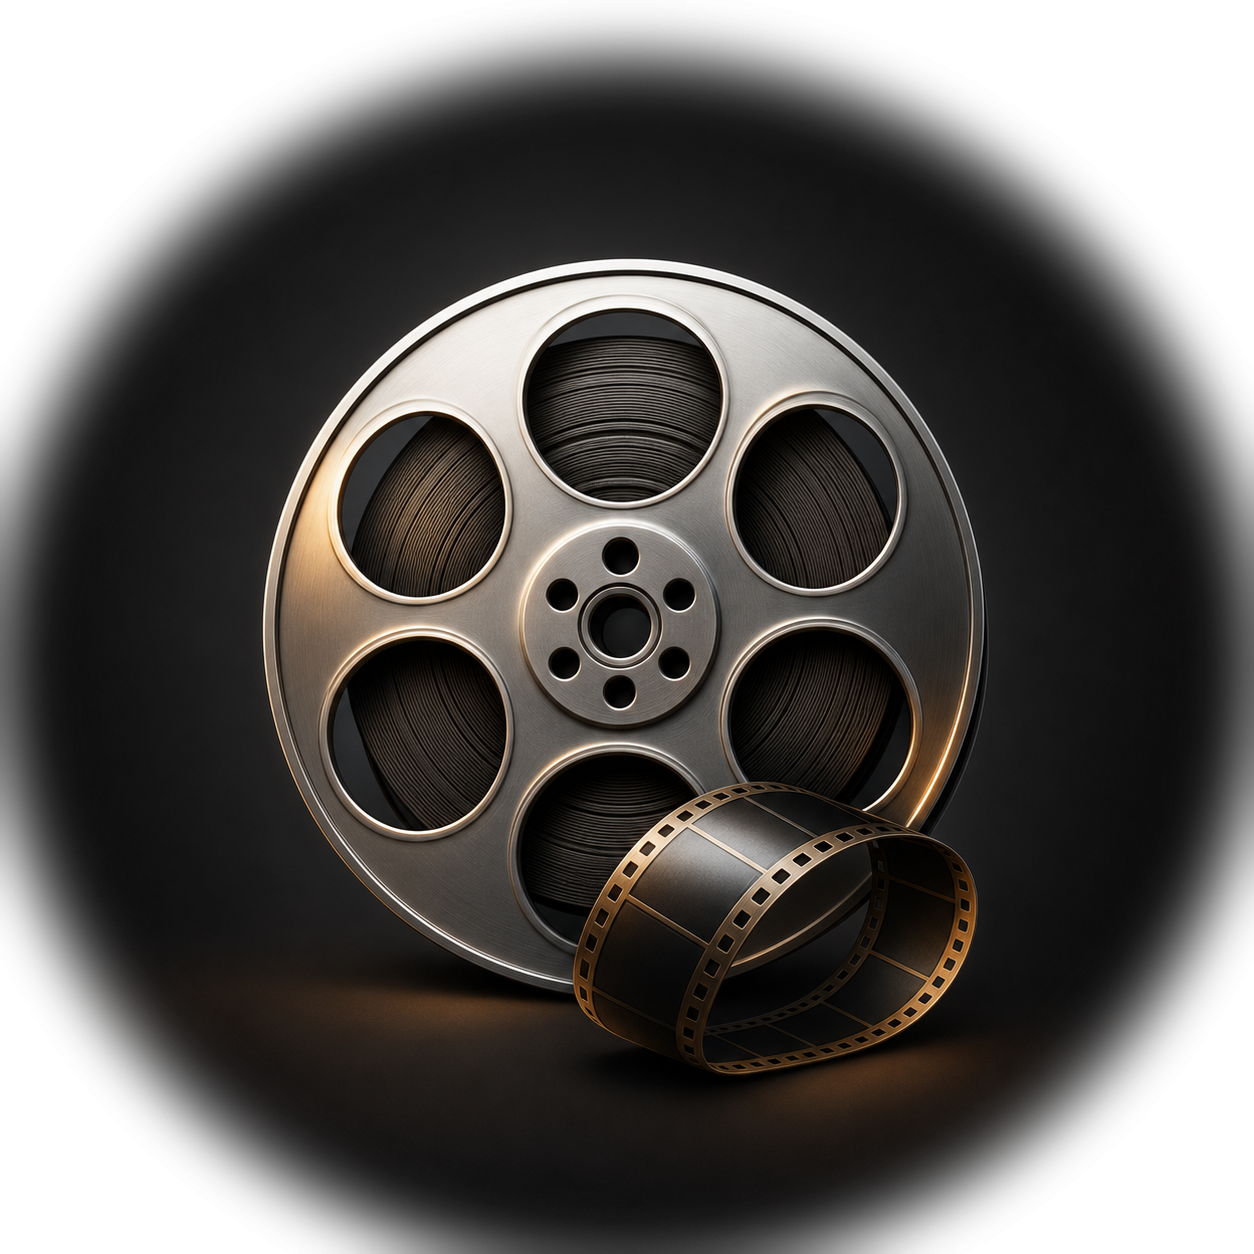
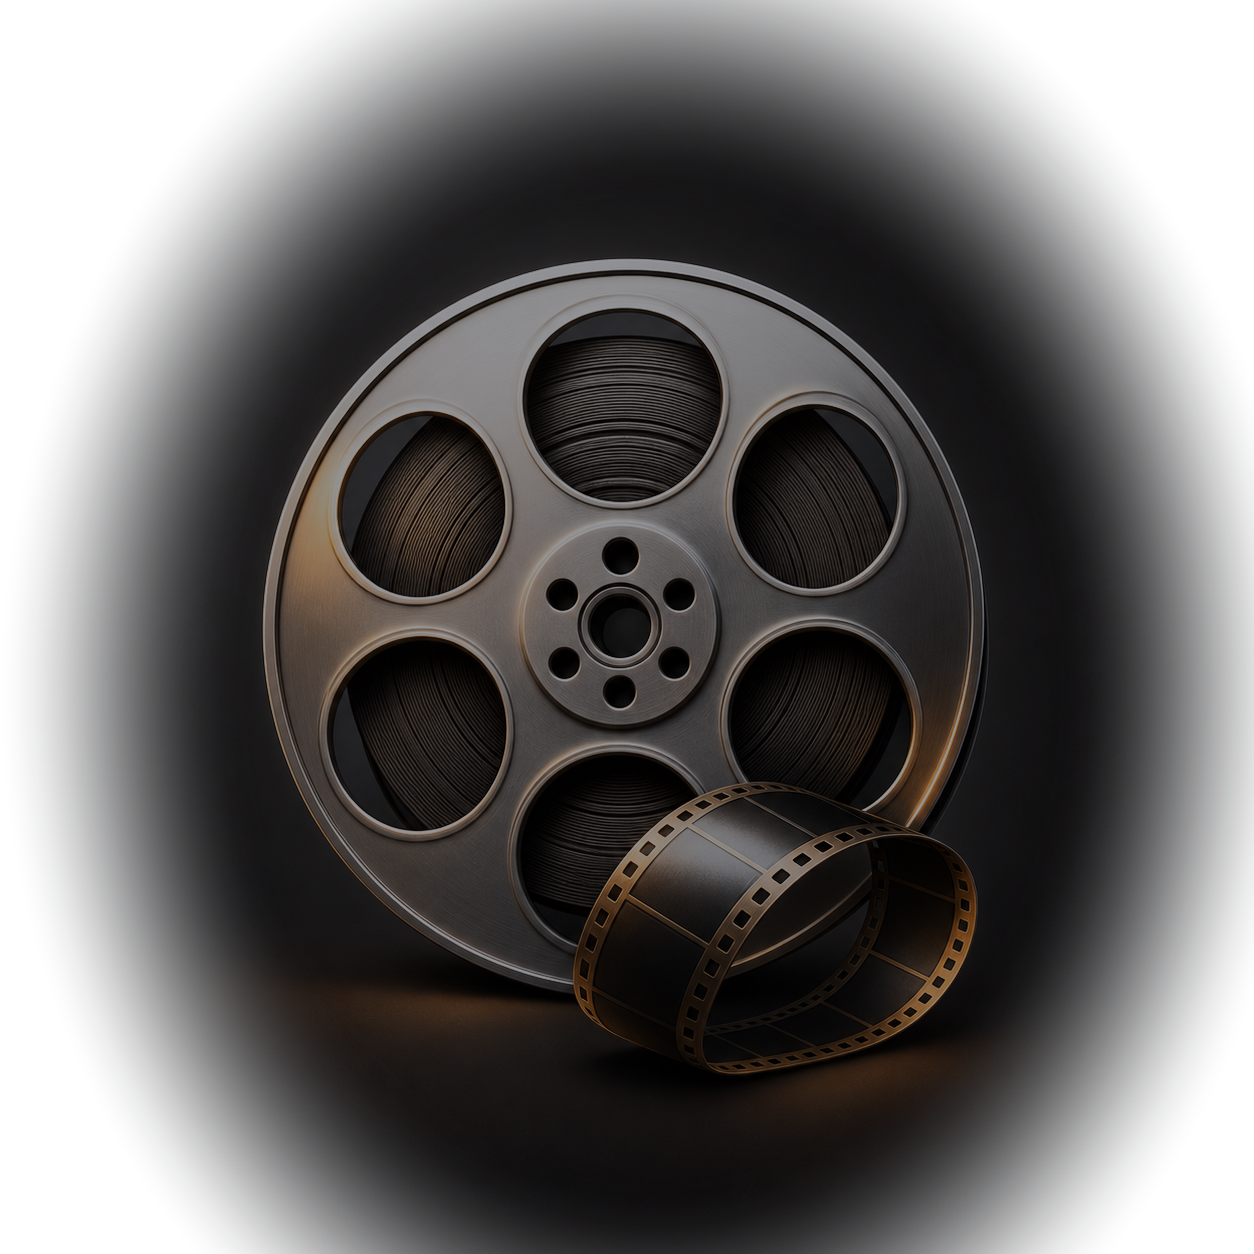
修复: 续播位置、加载遮罩跟随窗口移动、Emby上报诊断
1. 续播: openPath 命令增加 startPositionRatio 字段,C++ 在播放
   开始后 seek 到对应位置。LibraryApp 在播放 progress>0 且 <1
   的媒体时传入 item.progress。

2. 加载遮罩跟随窗口: WM_MOVE 时重新定位 buffering/fullscreen
   overlay(它们用屏幕坐标,移动主窗口时不会自动跟随)。

3. Emby 上报诊断: pending report 匹配失败时输出 mediaPath 和
   reportUrl 日志,用于定位继续观看未更新的问题。

验证: VS 编译 Debug|x64 通过(0警告0错误)。

diff --git a/src/AnvilPlayer.App/webui/src/LibraryApp.tsx b/src/AnvilPlayer.App/webui/src/LibraryApp.tsx
@@ -2918,7 +2918,8 @@ export default function LibraryApp(): JSX.Element {
         postNativeCommand({
           type: 'command',
           command: 'openPath',
-          path: playablePath
+          path: playablePath,
+          startPositionRatio: item.progress > 0 && item.progress < 1 ? item.progress : undefined
         })
         debugLibraryPlayback(`play local openPath posted id=${localPlayableItem.id} path=${localPlayableItem.path ?? ''}`)
       }, 0)
@@ -2949,7 +2950,8 @@ export default function LibraryApp(): JSX.Element {
         postNativeCommand({
           type: 'command',
           command: 'openPath',
-          path: target.url
+          path: target.url,
+          startPositionRatio: item.progress > 0 && item.progress < 1 ? item.progress : undefined
         })
         debugLibraryPlayback(`play openPath posted targetId=${target.itemId}`)
       }, 0)

diff --git a/src/AnvilPlayer.App/webui/src/App.tsx b/src/AnvilPlayer.App/webui/src/App.tsx
@@ -428,6 +428,9 @@ function useEmbyPlaybackReporting(state: PlayerState): void {
     const pending = loadPendingEmbyPlaybackReport()
     const pendingPathMatches = Boolean(pending && state.hasMedia && playbackPathMatchesEmbyReport(state.mediaPath, pending))
     const activePathMatches = Boolean(active && state.hasMedia && playbackPathMatchesEmbyReport(state.mediaPath, active.report))
+    if (pending && state.hasMedia && !pendingPathMatches) {
+      debugEmbyPlaybackReport(`no match itemId=${pending.target.itemId} mediaPath=${state.mediaPath.slice(0, 120)} reportUrl=${pending.target.url.slice(0, 120)}`)
+    }
 
     if (active && pending && pending.id !== active.report.id && (!active.started || !active.matched || pendingPathMatches || (active.matched && state.hasMedia && !activePathMatches))) {
       if (active.started) {

diff --git a/src/AnvilPlayer.App/webui/src/library.css b/src/AnvilPlayer.App/webui/src/library.css
@@ -1634,9 +1634,9 @@
   background-position: center;
   background-repeat: no-repeat;
   background-size: min(72%, 280px) auto;
-  filter: saturate(0.88) contrast(1.06);
-  mix-blend-mode: screen;
-  opacity: 0.74;
+  filter: saturate(0.9) contrast(0.95) brightness(0.96);
+  mix-blend-mode: normal;
+  opacity: 0.92;
   pointer-events: none;
   transform: translateY(2%);
 }
@@ -1649,7 +1649,7 @@
 .library-continue-art .library-default-film,
 .library-episode-thumb .library-default-film {
   background-size: min(46%, 160px) auto;
-  opacity: 0.68;
+  opacity: 0.86;
 }
 
 .library-similar-art .library-default-film {

diff --git a/src/AnvilPlayer.App/webui/src/nativeBridge.ts b/src/AnvilPlayer.App/webui/src/nativeBridge.ts
@@ -167,7 +167,7 @@ export interface HdrToneCurvePoint {
 
 export type NativeCommand =
   | { type: 'command'; command: 'open' }
-  | { type: 'command'; command: 'openPath'; path: string }
+  | { type: 'command'; command: 'openPath'; path: string; startPositionRatio?: number }
   | { type: 'command'; command: 'pickLocalFolder' }
   | { type: 'command'; command: 'scanLocalFolder'; path: string; username?: string; password?: string }
   | { type: 'command'; command: 'listSmbDirectory'; requestId: string; host: string; path?: string; username?: string; password?: string }

diff --git a/src/AnvilPlayer.App/webui/src/manager/types.ts b/src/AnvilPlayer.App/webui/src/manager/types.ts
@@ -91,6 +91,7 @@ export interface MediaItem {
   overview: string
   episodes?: EpisodeItem[]
   seasons?: SeasonItem[]
+  versions?: MediaItem[]
   cast?: PersonCredit[]
   similarItems?: MediaItem[]
   streamSpecs?: MediaStreamSpec[]

diff --git a/src/AnvilPlayer.App/src/main_window.cpp b/src/AnvilPlayer.App/src/main_window.cpp
@@ -2115,6 +2115,7 @@ void MainWindow::HandleWebUiMessage(const std::wstring_view message) {
         }
     } else if (MessageContains(message, L"\"command\":\"openPath\"")) {
         if (const auto path = ReadJsonString(message, L"path")) {
+            pendingStartPositionRatio_ = ReadJsonNumber(message, L"startPositionRatio").value_or(0.0);
             auto* postedPath = new std::filesystem::path(*path);
             if (!PostMessageW(hwnd_, kOpenPathMessage, 1, reinterpret_cast<LPARAM>(postedPath))) {
                 delete postedPath;
@@ -2736,6 +2737,10 @@ LRESULT MainWindow::HandleMessage(const UINT message, const WPARAM wParam, const
             webUiHost_->Resize(client);
         }
         InvalidateRect(hwnd_, nullptr, FALSE);
+        return 0;
+    case WM_MOVE:
+        UpdateBufferingOverlay();
+        UpdateFullscreenOverlay();
         return 0;
     case WM_MOUSEMOVE:
         OnMouseMove(GET_X_LPARAM(lParam), GET_Y_LPARAM(lParam));
@@ -5294,6 +5299,16 @@ void MainWindow::OpenPath(const std::filesystem::path& path, const bool autoplay
     }
     if (opened && autoplay) {
         StartPlayback();
+        const double startRatio = std::exchange(pendingStartPositionRatio_, 0.0);
+        if (startRatio > 0.001) {
+            const auto snapshot = controller_.Snapshot();
+            if (snapshot.media.has_value() && snapshot.media->duration.count() > 0) {
+                SeekToPosition(std::chrono::milliseconds{
+                    static_cast<long long>(static_cast<double>(snapshot.media->duration.count()) *
+                                           std::clamp(startRatio, 0.0, 0.99))});
+                LogApp(LogLevel::Info, L"resume from ratio=" + std::to_wstring(startRatio));
+            }
+        }
         return;
     }
     InvalidateRect(hwnd_, nullptr, FALSE);

diff --git a/src/AnvilPlayer.App/src/main_window_layout.cpp b/src/AnvilPlayer.App/src/main_window_layout.cpp
@@ -1090,6 +1090,7 @@ void MainWindow::UpdateBufferingOverlay(const NativeVideoQueueStats* statsOverri
             }
         }
         lastBufferingOverlayBounds_ = RECT{};
+        lastBufferingOverlayScreenBounds_ = RECT{};
     };
 
     const auto snapshot = controller_.Snapshot();
@@ -1167,7 +1168,12 @@ void MainWindow::UpdateBufferingOverlay(const NativeVideoQueueStats* statsOverri
 
     RECT windowBounds = overlayBounds;
     MapWindowPoints(hwnd_, nullptr, reinterpret_cast<POINT*>(&windowBounds), 2);
-    if (moved || !wasVisible) {
+    const bool screenMoved = windowBounds.left != lastBufferingOverlayScreenBounds_.left ||
+                             windowBounds.top != lastBufferingOverlayScreenBounds_.top ||
+                             w != RectWidth(lastBufferingOverlayScreenBounds_) ||
+                             h != RectHeight(lastBufferingOverlayScreenBounds_);
+    const bool positionChanged = moved || screenMoved || !wasVisible;
+    if (positionChanged) {
         const int hudLeft = windowBounds.left + (w - hudWidth) / 2;
         const int hudTop = windowBounds.top + (h - hudHeight) / 2;
         SetWindowPos(bufferingOverlay_,
@@ -1227,6 +1233,9 @@ void MainWindow::UpdateBufferingOverlay(const NativeVideoQueueStats* statsOverri
             }
         }
         lastBufferingOverlayBounds_ = overlayBounds;
+    }
+    if (positionChanged) {
+        lastBufferingOverlayScreenBounds_ = windowBounds;
     }
 
     RenderBufferingHudOverlay(bufferingOverlayStats_);

diff --git a/src/AnvilPlayer.App/include/AnvilPlayer/App/main_window.h b/src/AnvilPlayer.App/include/AnvilPlayer/App/main_window.h
@@ -390,6 +390,7 @@ private:
     bool deferredRuntimeWaitForPreroll_ = false;
     bool deferredPausedFrameRefresh_ = false;
     bool deferredPausedFrameRefreshForceRestart_ = false;
+    double pendingStartPositionRatio_ = 0.0;  // 0..1, seek here after next openPath playback start
     UINT_PTR nativeColorSettingsRefreshSerial_ = 0;
     bool nativeColorSettingsRefreshRequiresDecoderRefresh_ = false;
     std::optional<NativeVideoFrame> heldNativeFrame_;
@@ -397,6 +398,7 @@ private:
     RECT lastFullscreenOverlayBounds_{};
     RECT lastTransportOverlayBounds_{};
     RECT lastBufferingOverlayBounds_{};
+    RECT lastBufferingOverlayScreenBounds_{};
     RECT lastSubtitleMenuOverlayBounds_{};
     bool trackingMouseLeave_ = false;
     bool hdrToneCurveWindowTrackingMouseLeave_ = false;
